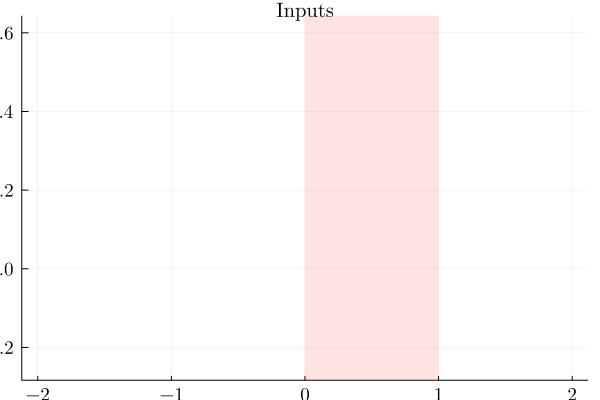
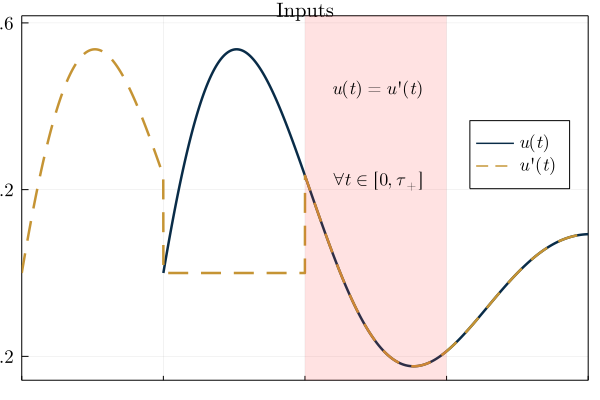
Deploying to gh-pages from  @ b5305f3498bb627029abe3d45a3f2ee9554a09be 🚀

diff --git a/pages/academic-looking_plots/index.html b/pages/academic-looking_plots/index.html
@@ -1,8 +1,5 @@
 <!doctype html> <html lang=en > <meta charset=UTF-8 > <meta name=viewport  content="width=device-width, initial-scale=1"> <link rel=stylesheet  href="/libs/katex/katex.min.css"> <link rel=stylesheet  href="/libs/highlight/github.min.css"> <link rel=stylesheet  href="/css/franklin.css"> <link rel=stylesheet  href="/css/pure.css"> <link rel=stylesheet  href="/css/side-menu.css"> <style> .franklin-content{padding-left:10%;} @media (min-width: 940px) { .franklin-content {width: 800px; margin-left: 0px; padding-left: 100px;} .header {width: 700px;} } </style> <link rel=icon  href="/assets/img/mg_logo.png"> <title>Academic-Looking Plots</title> <div id=layout > <a href="#menu" id=menuLink  class=menu-link ><span></span></a> <div id=menu > <div class=pure-menu > <a class=pure-menu-heading  href="#">Matt Giamou</a> <ul class=pure-menu-list > <li class="pure-menu-item "><a href="/" class=pure-menu-link >Home</a> <li class="pure-menu-item "><a href="/research/" class=pure-menu-link >Research</a> <li class="pure-menu-item "><a href="/teaching/" class=pure-menu-link >Teaching</a> <li class="pure-menu-item "><a href="/software/" class=pure-menu-link >Software</a> <li class="pure-menu-item "><a href="/blog/" class=pure-menu-link >Blog</a> <li class="pure-menu-item "><a href="/assets/giamou_cv.pdf" class=pure-menu-link >CV</a> </ul> </div> </div> <div id=main > <div class=header > <h1>Academic-Looking Plots</h1> </div> <div class=franklin-content ><p>This tutorial is meant to document the <a href="https://juliapackages.com/p/plots"><code>Plots.jl</code></a> features I use to get an &quot;academic&quot;-looking plot like this:</p> <p><img src="/assets/img/blog/academic_plot.png" alt="Very academic and professional&#33;" /></p> <p>I am new to Julia, so keep in mind that I don&#39;t yet have a strong grasp of the most idiomatic way to get plots to look the way I want. This tutorial was made with <a href="https://fredrikekre.github.io/Literate.jl/">Literate.jl</a>; you can find the source code <a href="https://github.com/mattgiamou/mattgiamou.github.io/blob/master/_literate/academic_plots.jl">here</a>. Let&#39;s start with the required imports:</p> <pre><code class="julia hljs"><span class=hljs-keyword >using</span> Plots
-<span class=hljs-keyword >using</span> LaTeXStrings</code></pre><pre><code class="plaintext hljs">ArgumentError: Package LaTeXStrings not found in current path:
-- Run `import Pkg; Pkg.add(&quot;LaTeXStrings&quot;)` to install the LaTeXStrings package.
-
-</code></pre> <p>We&#39;ll be using the <a href="https://juliapackages.com/p/gr"><code>GR</code></a> backend:</p> <pre><code class="julia hljs">gr()
+<span class=hljs-keyword >using</span> LaTeXStrings</code></pre> <p>We&#39;ll be using the <a href="https://juliapackages.com/p/gr"><code>GR</code></a> backend:</p> <pre><code class="julia hljs">gr()
 Plots.GRBackend();</code></pre> <p>The plots are related to a simple time-delayed linear system. The parameters don&#39;t matter too much, I just wanted curves that looked a certain way.</p> <pre><code class="julia hljs">τ = -<span class=hljs-number >1</span>
 τ′ = -<span class=hljs-number >2</span>
 T = abs(τ)
@@ -39,17 +36,11 @@ shaded_alpha = <span class=hljs-number >0.15</span>;</code></pre> <p>Custom <cod
 x_tick_labels = [<span class=hljs-string >L&quot;{\tau&#x27;={-2}}&quot;</span>, <span class=hljs-string >L&quot;\tau={-1}&quot;</span>, <span class=hljs-number >0</span>, <span class=hljs-string >L&quot;\tau_{+}=1&quot;</span>, <span class=hljs-number >2</span>]
 y_ticks1 = [-<span class=hljs-number >0.2</span>, <span class=hljs-number >0.2</span>, <span class=hljs-number >0.6</span>]
 y_ticks2 = [<span class=hljs-number >0</span>, <span class=hljs-number >0.4</span>, <span class=hljs-number >0.8</span>]
-y_ticks3 = y_ticks2;</code></pre><pre><code class="plaintext hljs">LoadError: UndefVarError: @L_str not defined
-in expression starting at none:1
-</code></pre> <p>Let&#39;s get plotting&#33; I don&#39;t want any <code>x-</code>tick labels in this top plot. Most of the arguments here are fairly straightforward.</p> <pre><code class="julia hljs">p1 = plot(t, u, linecolor=Σ_color, linewidth=lw, label=<span class=hljs-string >L&quot;u(t)&quot;</span>, legend=(<span class=hljs-number >0.88</span>, <span class=hljs-number >0.65</span>), framestyle=:box, widen=widen, yticks=y_ticks1, xticks=(x_ticks, [<span class=hljs-string >&quot;&quot;</span> <span class=hljs-keyword >for</span> _ <span class=hljs-keyword >in</span> x_ticks]))
-plot!(t′, u′, linecolor=Σ′_color, linewidth=lw, label=<span class=hljs-string >L&quot;u&#x27;(t)&quot;</span>, linestyle=:dash);</code></pre><pre><code class="plaintext hljs">LoadError: UndefVarError: @L_str not defined
-in expression starting at none:1
-</code></pre> <p>I want red shading to highlight a key region of this first plot.</p> <pre><code class="julia hljs">plot!(rectangle(T,<span class=hljs-number >12</span>,<span class=hljs-number >0</span>,-<span class=hljs-number >5</span>), opacity=shaded_alpha, color=red_color, linewidth=<span class=hljs-number >0</span>, label=<span class=hljs-literal >false</span>);</code></pre>
+y_ticks3 = y_ticks2;</code></pre> <p>Let&#39;s get plotting&#33; I don&#39;t want any <code>x-</code>tick labels in this top plot. Most of the arguments here are fairly straightforward.</p> <pre><code class="julia hljs">p1 = plot(t, u, linecolor=Σ_color, linewidth=lw, label=<span class=hljs-string >L&quot;u(t)&quot;</span>, legend=(<span class=hljs-number >0.88</span>, <span class=hljs-number >0.65</span>), framestyle=:box, widen=widen, yticks=y_ticks1, xticks=(x_ticks, [<span class=hljs-string >&quot;&quot;</span> <span class=hljs-keyword >for</span> _ <span class=hljs-keyword >in</span> x_ticks]))
+plot!(t′, u′, linecolor=Σ′_color, linewidth=lw, label=<span class=hljs-string >L&quot;u&#x27;(t)&quot;</span>, linestyle=:dash);</code></pre> <p>I want red shading to highlight a key region of this first plot.</p> <pre><code class="julia hljs">plot!(rectangle(T,<span class=hljs-number >12</span>,<span class=hljs-number >0</span>,-<span class=hljs-number >5</span>), opacity=shaded_alpha, color=red_color, linewidth=<span class=hljs-number >0</span>, label=<span class=hljs-literal >false</span>);</code></pre>
 <p>I use <a href="">LaTeXStrings.jl</a> to conveniently place LaTeX annotations on the graph.</p>
 <pre><code class="julia hljs">annotate!((<span class=hljs-number >0.52</span>, <span class=hljs-number >0.44</span>, text(<span class=hljs-string >L&quot;u(t)=u&#x27;(t)&quot;</span>, annotation_font_size)))
-annotate!((<span class=hljs-number >0.52</span>, <span class=hljs-number >0.22</span>, text(<span class=hljs-string >L&quot;\forall t \in [0, \tau_{+}]&quot;</span>, annotation_font_size)));</code></pre><pre><code class="plaintext hljs">LoadError: UndefVarError: @L_str not defined
-in expression starting at none:1
-</code></pre>
+annotate!((<span class=hljs-number >0.52</span>, <span class=hljs-number >0.22</span>, text(<span class=hljs-string >L&quot;\forall t \in [0, \tau_{+}]&quot;</span>, annotation_font_size)));</code></pre>
 <p>All that remains is to set the title, font sizes, axis extents, and save the result as a PDF.</p>
 <pre><code class="julia hljs">title!(<span class=hljs-string >&quot;Inputs&quot;</span>)
 plot!(fontfamily=font_family)
@@ -77,10 +68,8 @@ plot!(tickfontsize=guide_font_size)
 plot!(guidefontsize=guide_font_size)
 yticks!(y_ticks2)
 xaxis!(x_extent)
-yaxis!(y_extent2)</code></pre><pre><code class="plaintext hljs">LoadError: UndefVarError: @L_str not defined
-in expression starting at none:1
-</code></pre>
-<p><span style="color:red;">// Image matching '/assets/pages/academic-looking_plots/code/plot2.png' not found. //</span></p>
+yaxis!(y_extent2)</code></pre>
+<img src="/assets/pages/academic-looking_plots/code/output/plot2.png" alt="">
 <p>And the third plot is also very similar:</p>
 <pre><code class="julia hljs">p3 = plot(t_y, y, linecolor=Σ_color, linewidth=lw, label=<span class=hljs-string >L&quot;y(t)=x(t+\tau)&quot;</span>, legend=(<span class=hljs-number >0.15</span>, <span class=hljs-number >0.65</span>), framestyle=:box, widen=widen)
 plot!(t_y, y′, linecolor=Σ′_color, label=<span class=hljs-string >L&quot;y&#x27;(t)=x&#x27;(t+\tau&#x27;)&quot;</span>, linestyle=:dash, linewidth=lw)
@@ -88,9 +77,7 @@ plot!(rectangle(abs(τ),<span class=hljs-number >12</span>,<span class=hljs-numb
 annotate!((<span class=hljs-number >0.37</span>, <span class=hljs-number >0.66</span>, text(<span class=hljs-string >L&quot;y(t)=y&#x27;(t)&quot;</span>, annotation_font_size)))
 annotate!((<span class=hljs-number >0.37</span>, <span class=hljs-number >0.44</span>, text(<span class=hljs-string >L&quot;\forall t \in [0, \tau_{+}]&quot;</span>, annotation_font_size)))
 xlabel!(<span class=hljs-string >&quot;Time (s)&quot;</span>)
-title!(<span class=hljs-string >&quot;Outputs&quot;</span>);</code></pre><pre><code class="plaintext hljs">LoadError: UndefVarError: @L_str not defined
-in expression starting at none:1
-</code></pre>
+title!(<span class=hljs-string >&quot;Outputs&quot;</span>);</code></pre>
 <p>However, it does have <code>x-</code>tick labels &#40;since it&#39;s going to be at the bottom of our combined plot&#41;.</p>
 <pre><code class="julia hljs">plot!(x_ticks=(x_ticks, x_tick_labels))
 yticks!(y_ticks3)
@@ -100,13 +87,11 @@ plot!(tickfontsize=guide_font_size)
 plot!(guidefontsize=guide_font_size)
 plot!(legendfontsize=guide_font_size)
 xaxis!(x_extent)
-yaxis!(y_extent3)</code></pre><pre><code class="plaintext hljs">UndefVarError: x_tick_labels not defined
-</code></pre>
-<p><span style="color:red;">// Image matching '/assets/pages/academic-looking_plots/code/plot3.png' not found. //</span></p>
+yaxis!(y_extent3)</code></pre>
+<img src="/assets/pages/academic-looking_plots/code/output/plot3.png" alt="">
 <p><code>Plots.jl</code> makes it really easy to combine the subplots into one figure:</p>
-<pre><code class="julia hljs">plot(p1, p2, p3, layout=(<span class=hljs-number >3</span>,<span class=hljs-number >1</span>))</code></pre><pre><code class="plaintext hljs">UndefVarError: p1 not defined
-</code></pre>
-<p><span style="color:red;">// Image matching '/assets/pages/academic-looking_plots/code/final_plot.png' not found. //</span></p>
+<pre><code class="julia hljs">plot(p1, p2, p3, layout=(<span class=hljs-number >3</span>,<span class=hljs-number >1</span>))</code></pre>
+<img src="/assets/pages/academic-looking_plots/code/output/final_plot.png" alt="">
 <p>Finally, you can save your figure as a PDF &#40;my preferred format for academic papers&#41; with <code>savefig&#40;&quot;path/you/want.pdf&quot;&#41;</code>.</p>
 
 <div class=page-foot >
